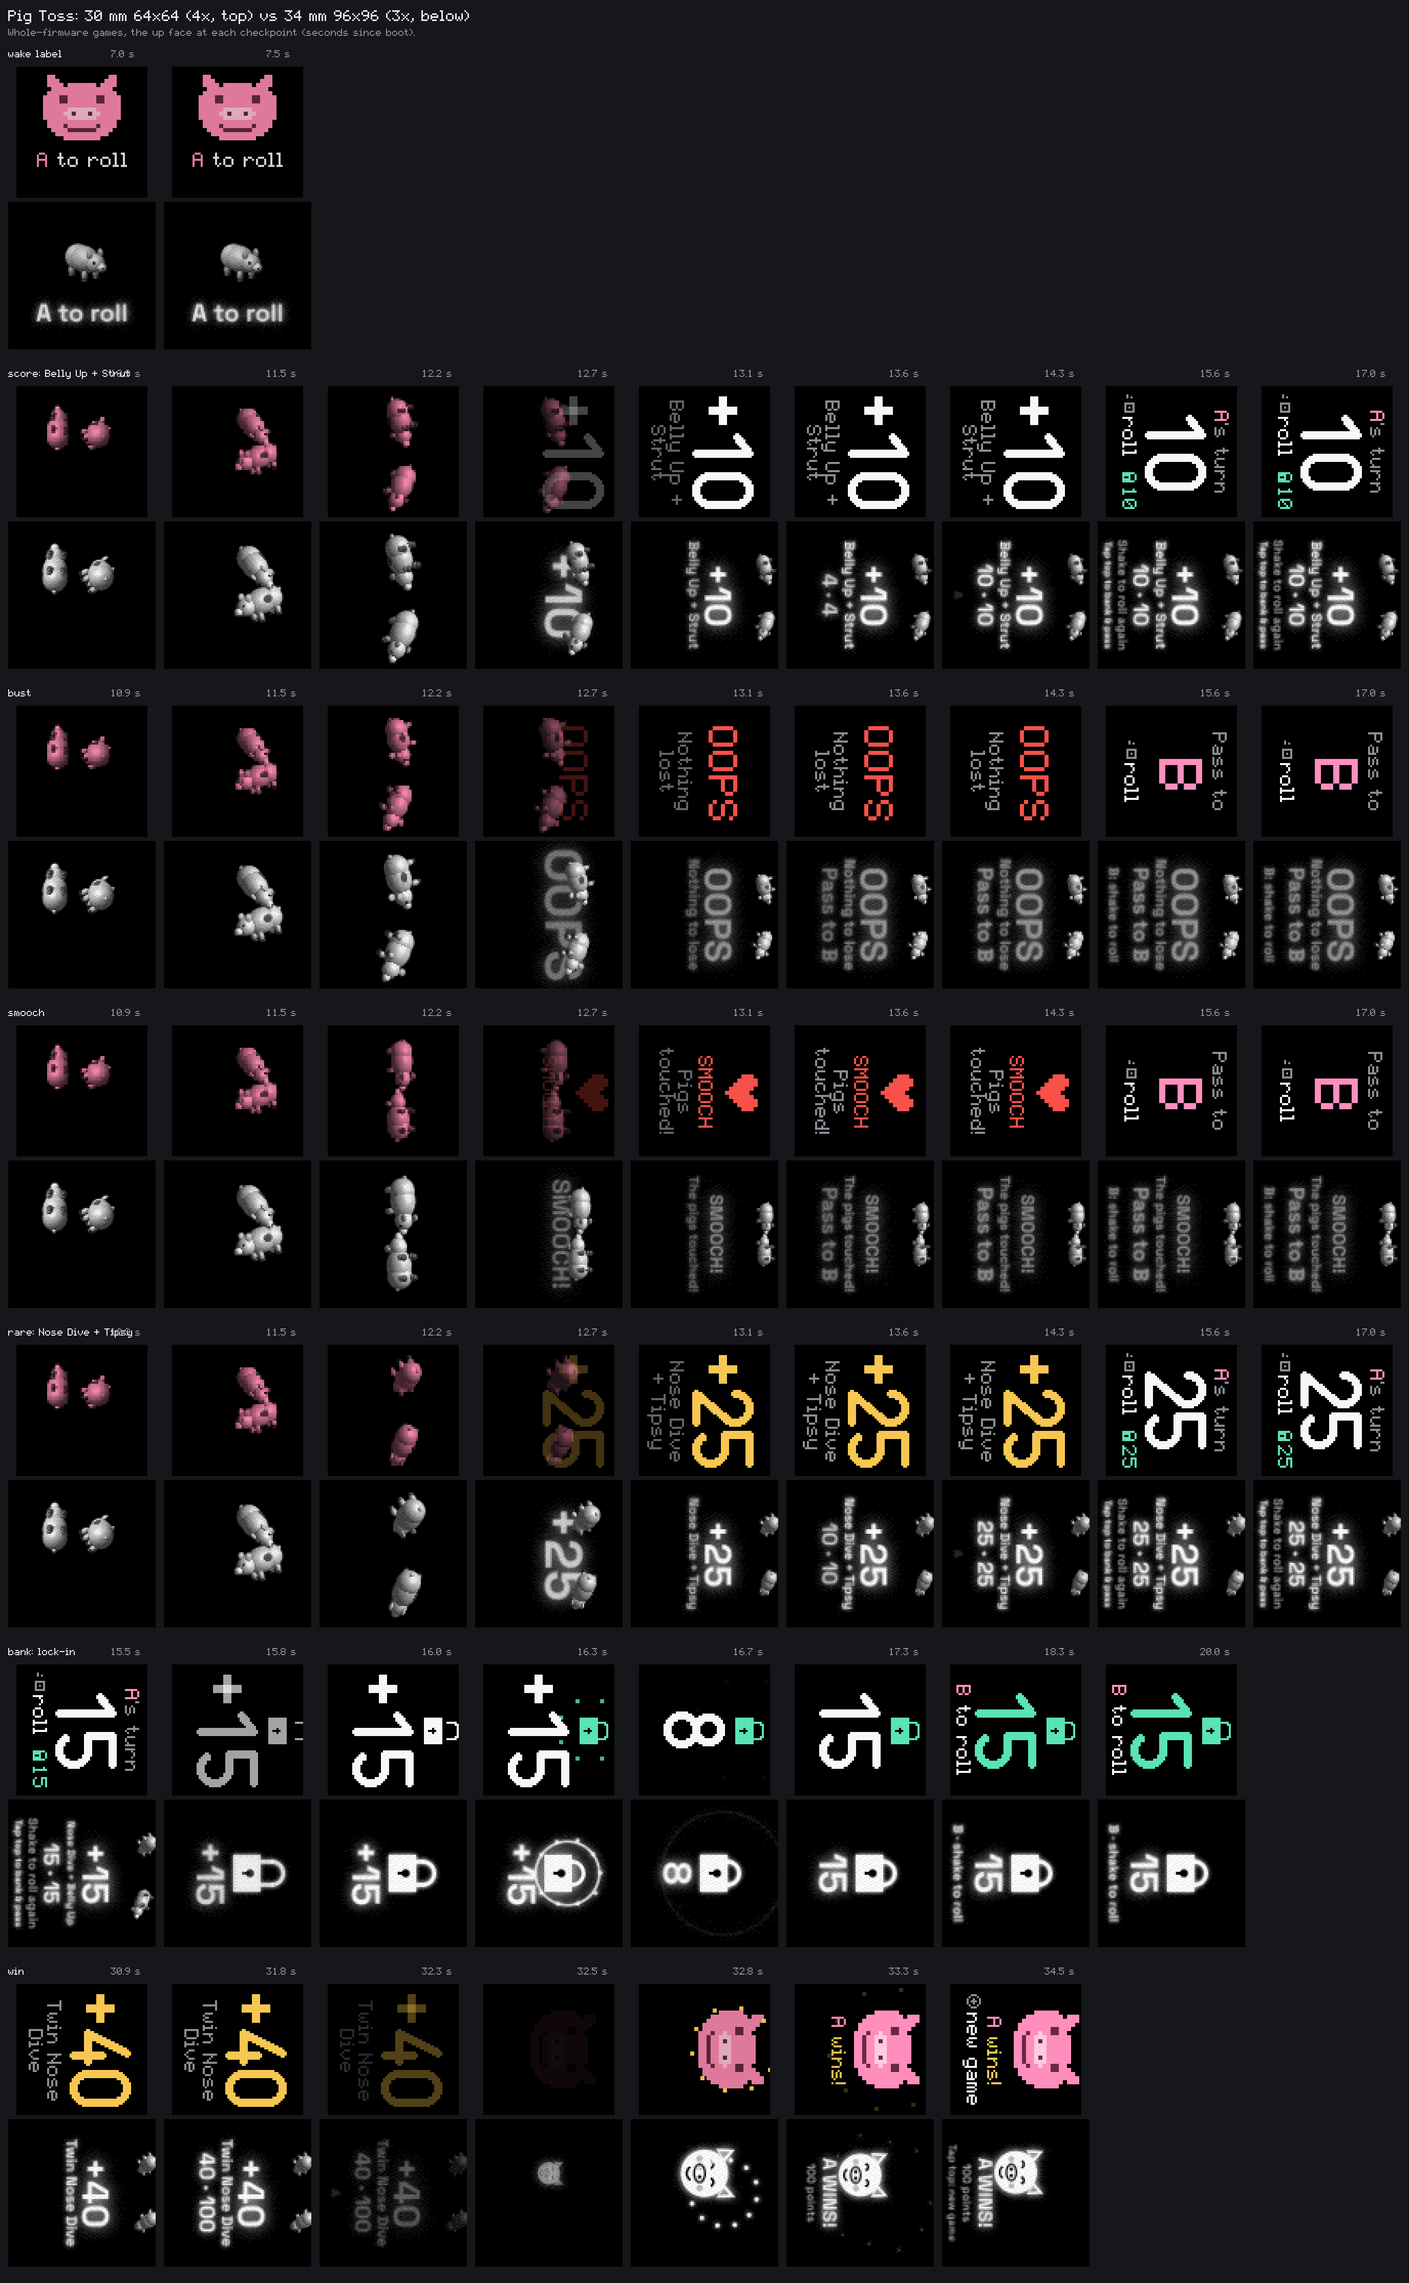
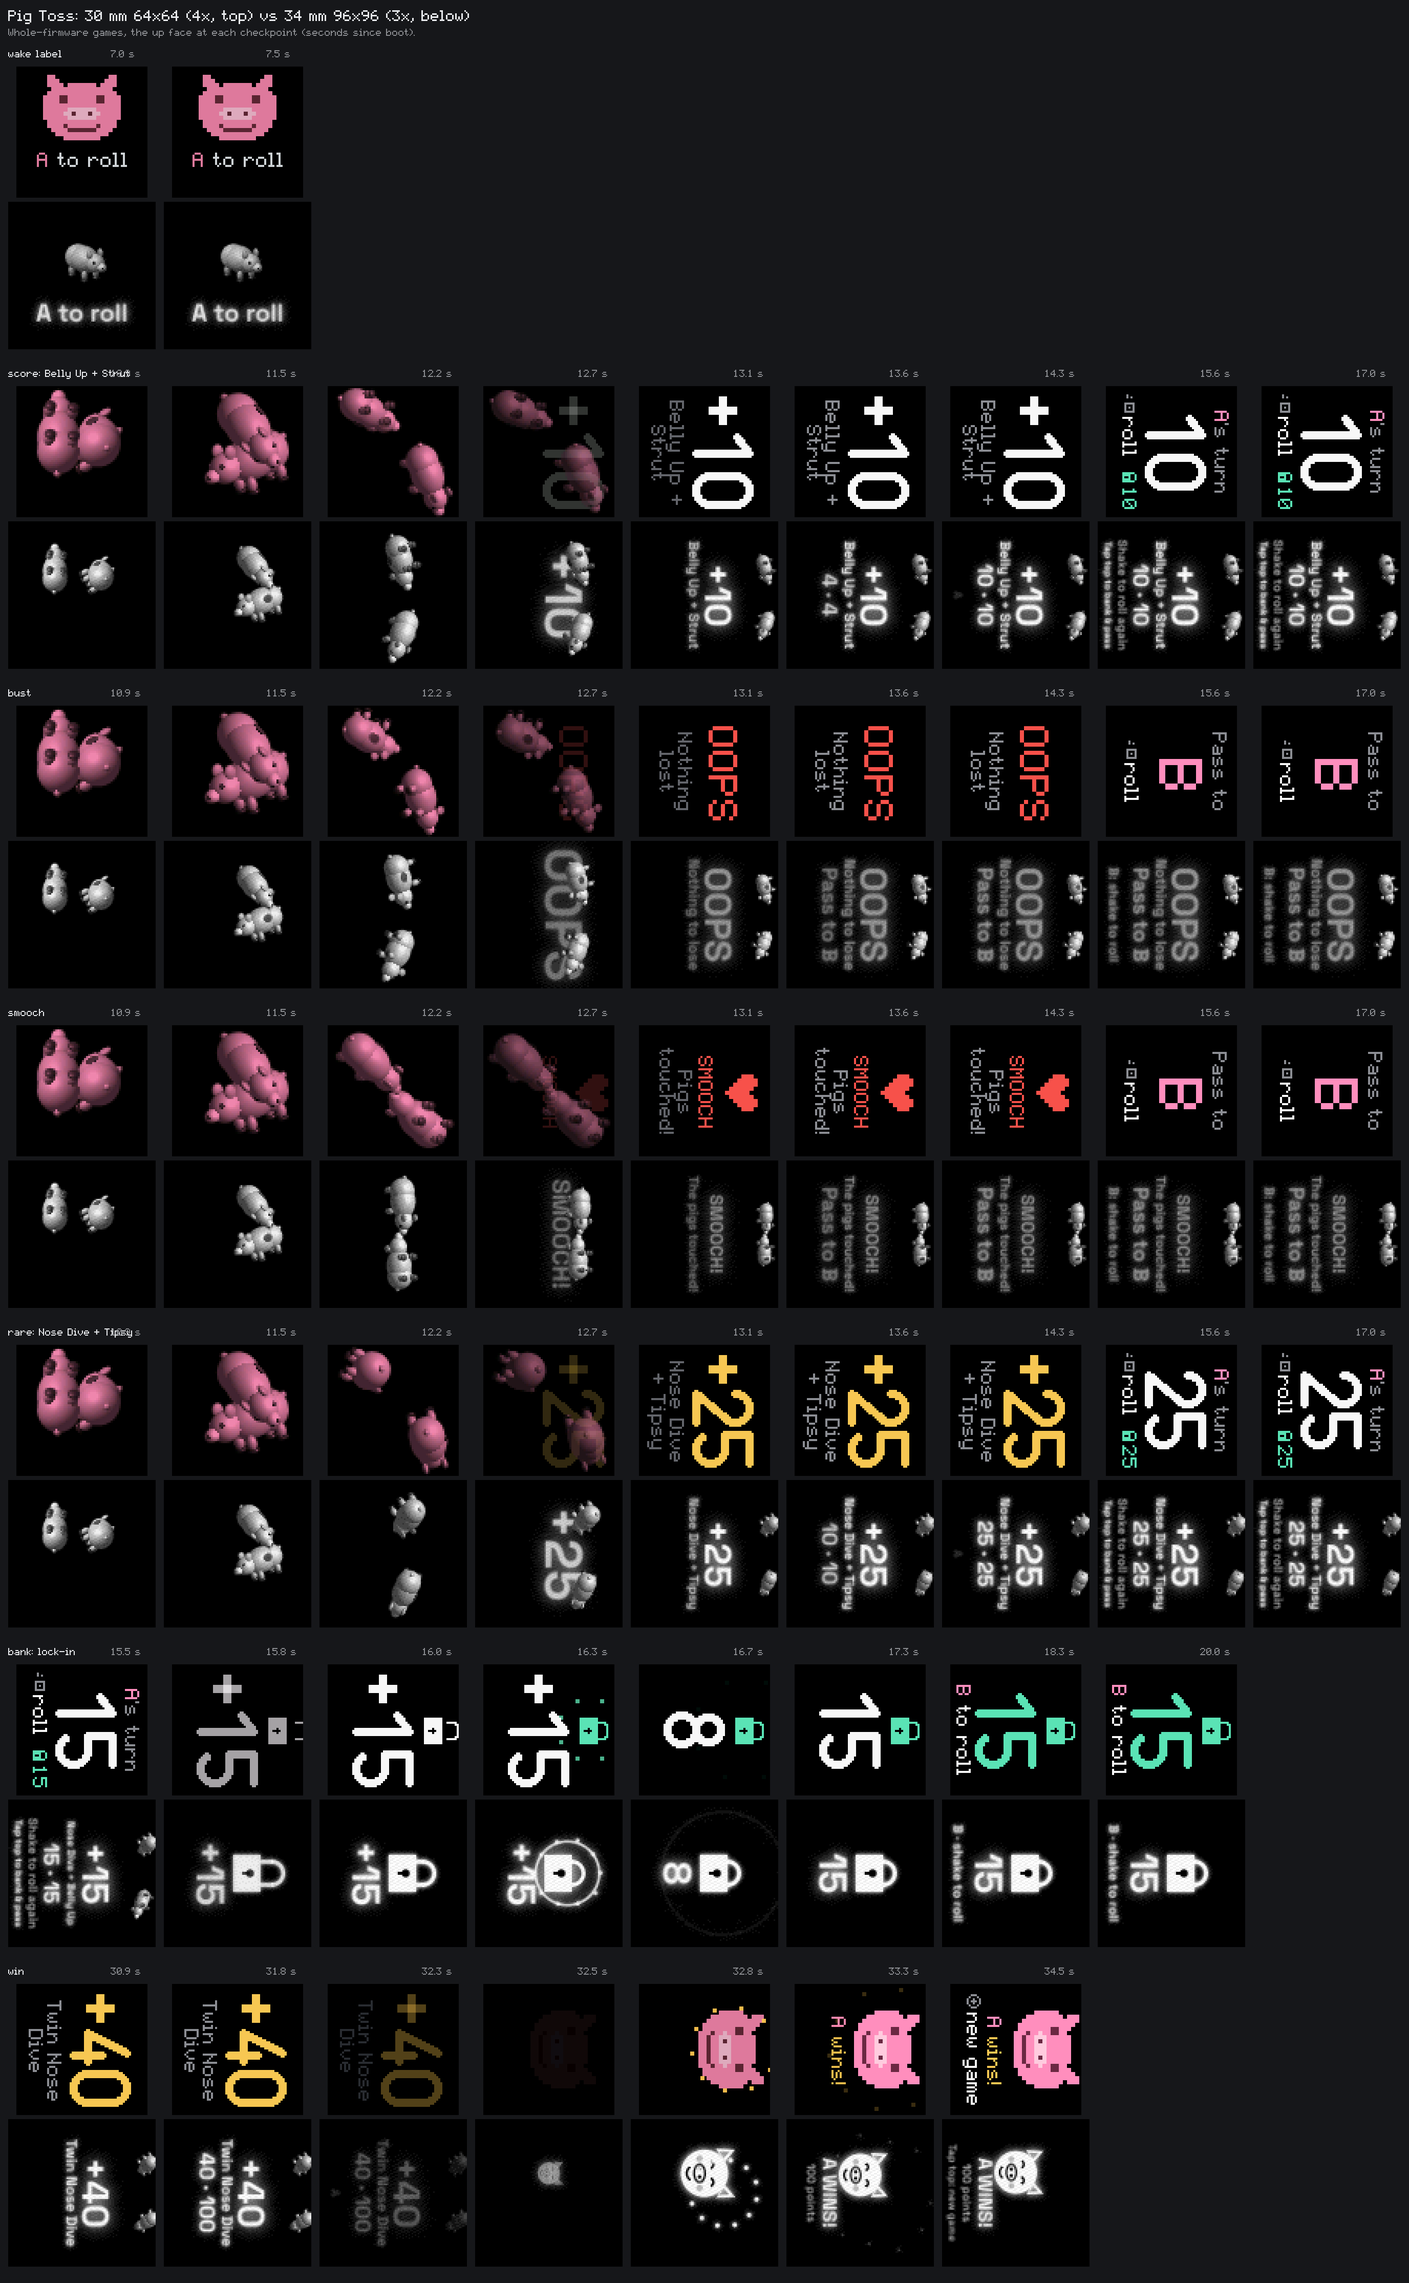
30 mm: bigger Pig Toss pigs
The pigs were cast for the 96×96 table and shrunk onto the 64×64 face,
about 13 px each. Now a per-target lens (DisplayTarget::pig_lens) frames
them:

- The 64×64 face takes the middle of the picture 1:1 and zooms in, with
  the tumble's wandering and bounce pulled in to match.
- As the pigs land, the pair turns toward the viewer as one piece (so
  touching pigs still touch). The view then eases to fit them, about
  60 px across, and centres them.

A test checks that a whole tumble and every landing stay on the face,
and that the landed pigs span at least 50 px. The 96×96 die uses
Lens::WHOLE, and its snapshots are unchanged.

Claude-Session: https://claude.ai/code/session_01JDQ8znoknXNbgB4n1wLGzs

diff --git a/packages/firmware/core/src/pigfx.rs b/packages/firmware/core/src/pigfx.rs
@@ -362,6 +362,44 @@ pub fn rest(i: usize, poses: [Pose; 2], touching: bool) -> PigState {
 }
 
 /// What the faces show of the pigs.
+/// How a panel frames the pigs. The 96×96 die sees the table whole; a
+/// smaller panel can zoom in, and pull the pigs' wandering in to match, so
+/// that they stay big and on the face.
+#[derive(Clone, Copy, Debug, PartialEq)]
+pub struct Lens {
+    /// Pig size against the 96×96 design.
+    pub zoom: f32,
+    /// How far across the table the pigs wander, tumble and rest, against
+    /// the 96×96 design. Pigs that land touching still touch.
+    pub spread: f32,
+    /// The bounce height in the air, against the 96×96 design.
+    pub hop: f32,
+    /// Moves the table's centre down the face in the air, canvas units.
+    pub drop: f32,
+    /// Landed, the pair turns this far about the vertical (radians), as one
+    /// piece so that touching pigs still touch. Then the view zooms to fit
+    /// them, `fit` pixels across at most, and centres them. 0 keeps
+    /// the 96×96 table's view.
+    pub turn: f32,
+    pub fit: f32,
+    /// Lay a smaller panel's pixels 1:1 from the middle of the picture,
+    /// rather than shrinking the whole picture onto it.
+    pub crop: bool,
+}
+
+impl Lens {
+    /// The 96×96 die's view.
+    pub const WHOLE: Lens = Lens {
+        zoom: 1.0,
+        spread: 1.0,
+        hop: 1.0,
+        drop: 0.0,
+        turn: 0.0,
+        fit: 0.0,
+        crop: false,
+    };
+}
+
 #[derive(Clone, Copy, Debug, PartialEq)]
 pub enum Scene {
     /// In the air `t` seconds since the throw began.
@@ -403,8 +441,9 @@ pub struct Canvas {
     cover: [u8; 96 * STRIP],
     /// The pixels the picture holds anything in, unrotated.
     bounds: Region,
-    /// The scene cast last, so an unchanged one isn't cast again.
-    cast: Option<Scene>,
+    /// The scene cast last, and through what, so an unchanged one isn't
+    /// cast again.
+    cast: Option<(Scene, Lens)>,
 }
 
 impl Canvas {
@@ -434,12 +473,17 @@ impl Canvas {
     /// Cast the pigs for `scene`, unless that is what the canvas already
     /// holds. Returns the work it took, which is none for a repeat.
     pub fn draw(&mut self, scene: Scene) -> Stats {
+        self.draw_through(scene, Lens::WHOLE)
+    }
+
+    /// [`Self::draw`], framed by `lens`.
+    pub fn draw_through(&mut self, scene: Scene, lens: Lens) -> Stats {
         let scene = scene.at_rest_clamped();
-        if self.cast == Some(scene) {
+        if self.cast == Some((scene, lens)) {
             return Stats::default();
         }
-        self.cast = Some(scene);
-        let (states, view) = layout(scene);
+        self.cast = Some((scene, lens));
+        let (states, view) = layout(scene, lens);
         self.n = prepare(&states, view, &mut self.casts);
         let mut stats = Stats::default();
         let mut lo = (usize::MAX, usize::MAX);
@@ -504,7 +548,8 @@ impl Canvas {
 
     /// Lay the pigs onto a face turned by `rot`, over whatever it shows,
     /// dimmed by `alpha`. The picture is cast at 96×96; a smaller panel
-    /// samples it nearest (a stopgap: Pig Toss has no 64×64 design yet).
+    /// takes the middle of it 1:1 if the lens crops, else samples it whole,
+    /// nearest.
     pub fn lay_onto<T: Target>(&self, fb: &mut Framebuffer<T>, rot: Quarter, alpha: f32) {
         self.lay_onto_tinted(fb, rot, alpha, Color::WHITE);
     }
@@ -538,9 +583,15 @@ impl Canvas {
             return;
         }
         let n = T::WIDTH;
+        let crop = self.cast.is_some_and(|(_, l)| l.crop);
+        let off = (96 - n) / 2;
         for ty in 0..n {
             for tx in 0..n {
-                let (sx, sy) = ((tx * 96 + 48) / n, (ty * 96 + 48) / n);
+                let (sx, sy) = if crop {
+                    (tx + off, ty + off)
+                } else {
+                    ((tx * 96 + 48) / n, (ty * 96 + 48) / n)
+                };
                 let Some((shade, a)) = decode(self.picture[sy * 96 + sx]) else {
                     continue;
                 };
@@ -679,7 +730,10 @@ fn dot(a: [f32; 3], b: [f32; 3]) -> f32 {
 }
 
 /// Where the two pigs are for `scene`, and how the table is seen.
-fn layout(scene: Scene) -> ([PigState; 2], View) {
+fn layout(scene: Scene, lens: Lens) -> ([PigState; 2], View) {
+    if lens != Lens::WHOLE {
+        return framed(scene, lens);
+    }
     let mut states = match scene {
         Scene::Tumbling(t) => [tumble(0, t), tumble(1, t)],
         Scene::Settling {
@@ -715,6 +769,95 @@ fn layout(scene: Scene) -> ([PigState; 2], View) {
         origin: (CENTRE.0, CENTRE.1 + 10.0 - lift),
     };
     (states, view)
+}
+
+/// [`layout`] through a lens other than the whole table's. In the air the
+/// pigs are zoomed in, with their wandering and bounce pulled in to match.
+/// As they land, the view eases to the landed pair turned by `lens.turn`,
+/// zoomed to fit and centred. The shrink is ignored: such a panel fades
+/// the pigs instead.
+fn framed(scene: Scene, lens: Lens) -> ([PigState; 2], View) {
+    let squeeze = |mut st: PigState| {
+        st.pos[0] *= lens.spread;
+        st.pos[1] *= lens.hop;
+        st.pos[2] *= lens.spread;
+        st
+    };
+    let air = View {
+        elevation: ELEVATION,
+        scale: SCALE * lens.zoom,
+        origin: (CENTRE.0, CENTRE.1 + 10.0 + lens.drop),
+    };
+    let Scene::Settling {
+        land,
+        u,
+        poses,
+        touching,
+        ..
+    } = scene
+    else {
+        let Scene::Tumbling(t) = scene else { unreachable!() };
+        return ([squeeze(tumble(0, t)), squeeze(tumble(1, t))], air);
+    };
+    let to = landings(poses, touching);
+    let states = [0, 1].map(|i| {
+        let from = squeeze(tumble(i, land));
+        // Where it rests, turned with the pair.
+        // The pair turns in step with the settle.
+        turned_about_y(settle(i, from, to[i], u), lens.turn * ease_out(u.clamp(0.0, 1.0)))
+    });
+    // The landed pair's bounds as the view sees them, and the view that
+    // fits and centres them.
+    let rest = [0, 1].map(|i| turned_about_y(settle(i, tumble(i, land), to[i], 1.0), lens.turn));
+    let (lo, hi) = view_bounds(&rest);
+    let span = (hi.0 - lo.0).max(hi.1 - lo.1);
+    // `fit` is in pixels of the 96×96 picture.
+    let fit_scale = (lens.fit / crate::gfx::K / span).min(SCALE * lens.zoom * 1.25);
+    let fit = View {
+        elevation: ELEVATION,
+        scale: fit_scale,
+        origin: (-0.5 * (lo.0 + hi.0) * fit_scale, 0.5 * (lo.1 + hi.1) * fit_scale),
+    };
+    let e = ease_out(u.clamp(0.0, 1.0));
+    let mix = |a: f32, b: f32| a + (b - a) * e;
+    let view = View {
+        elevation: ELEVATION,
+        scale: mix(air.scale, fit.scale),
+        origin: (mix(air.origin.0, fit.origin.0), mix(air.origin.1, fit.origin.1)),
+    };
+    (states, view)
+}
+
+/// `st` turned `a` radians about the table's vertical through its centre.
+fn turned_about_y(st: PigState, a: f32) -> PigState {
+    let (c, sn) = (cosf(a), sinf(a));
+    let (x, z) = (st.pos[0], st.pos[2]);
+    PigState {
+        q: Quat::axis_angle([0.0, 1.0, 0.0], a).mul(st.q),
+        pos: [x * c + z * sn, st.pos[1], -x * sn + z * c],
+    }
+}
+
+/// The smallest box, in world units across and up the view, that holds
+/// the solid parts of the pigs in `states`: `((left, bottom), (right, top))`.
+fn view_bounds(states: &[PigState]) -> ((f32, f32), (f32, f32)) {
+    let (ce, se) = (cosf(ELEVATION), sinf(ELEVATION));
+    let up = [0.0, ce, -se];
+    let (mut lo, mut hi) = ((f32::MAX, f32::MAX), (f32::MIN, f32::MIN));
+    for st in states {
+        for p in PARTS.iter().filter(|p| p.solid) {
+            let r = st.q.rotate(p.centre);
+            let w = [r[0] + st.pos[0], r[1] + st.pos[1], r[2] + st.pos[2]];
+            let (x, y) = (w[0], dot(w, up));
+            let (rx, ry) = (
+                support_along(st.q, p, [1.0, 0.0, 0.0]),
+                support_along(st.q, p, up),
+            );
+            lo = (lo.0.min(x - rx), lo.1.min(y - ry));
+            hi = (hi.0.max(x + rx), hi.1.max(y + ry));
+        }
+    }
+    (lo, hi)
 }
 
 /// How much work a draw took, counted rather than timed, so a budget on it
@@ -1199,7 +1342,7 @@ mod tests {
             let mut p = Painter::new(&mut own, &mut layer, Transform::quarter(rot));
             let xf = p.xf;
             let fb = p.framebuffer();
-            let (states, view) = layout(scene);
+            let (states, view) = layout(scene, Lens::WHOLE);
             let mut casts = [Cast::NONE; MAX_CASTS];
             let n = prepare(&states, view, &mut casts);
             let mut z = [0u16; PIXELS];
@@ -1270,5 +1413,64 @@ mod tests {
         let b = Quat::axis_angle([1.0, 0.0, 0.0], 2.0);
         assert!(a.slerp(b, 0.0).dot(a) > 0.9999);
         assert!(a.slerp(b, 1.0).dot(b) > 0.9999);
+    }
+}
+
+#[cfg(test)]
+mod lens_tests {
+    use super::*;
+
+    /// How much of the pigs a 64×64 face crops away (the share of the
+    /// picture's coverage outside the middle 64×64), worst over a long
+    /// tumble and every landing, and how big the landed pigs are.
+    #[test]
+    fn a_64_face_keeps_the_pigs_on_it() {
+        use crate::target::DisplayTarget;
+        let lens = <smokebomb_hal::Rgb64 as DisplayTarget>::pig_lens();
+        let mut canvas = Canvas::new();
+        let mut off = |scene: Scene| {
+            canvas.draw_through(scene, lens);
+            let (mut all, mut out) = (0u32, 0u32);
+            for y in 0..96 {
+                for x in 0..96 {
+                    if let Some((_, a)) = decode(canvas.picture[y * 96 + x]) {
+                        let c = (a * 255.0) as u32;
+                        all += c;
+                        if !(16..80).contains(&x) || !(16..80).contains(&y) {
+                            out += c;
+                        }
+                    }
+                }
+            }
+            let b = canvas.bounds;
+            (out as f32 / all.max(1) as f32, b.w.max(b.h))
+        };
+        let mut worst_air: f32 = 0.0;
+        for k in 0..400 {
+            worst_air = worst_air.max(off(Scene::Tumbling(k as f32 * 0.025)).0);
+        }
+        let (mut worst_rest, mut smallest): (f32, usize) = (0.0, 96);
+        for pa in Pose::ALL {
+            for pb in Pose::ALL {
+                for touching in [false, true] {
+                    for land in [0.3, 1.1, 2.6] {
+                        let (o, span) = off(Scene::Settling {
+                            land,
+                            u: 1.0,
+                            shrink: 0.0,
+                            poses: [pa, pb],
+                            touching,
+                        });
+                        worst_rest = worst_rest.max(o);
+                        smallest = smallest.min(span);
+                    }
+                }
+            }
+        }
+        assert!(worst_rest < 0.01, "landed pigs {worst_rest} off the face");
+        assert!(worst_air < 0.12, "tumbling pigs {worst_air} off the face");
+        // Landed, the pair fills most of the face (the 96×96 table's pigs
+        // shrunk onto it spanned about 30 px).
+        assert!(smallest >= 50, "landed pigs only {smallest} px across");
     }
 }

diff --git a/packages/firmware/core/src/target.rs b/packages/firmware/core/src/target.rs
@@ -68,6 +68,11 @@ pub trait DisplayTarget: Target {
         Color::WHITE
     }
 
+    /// Pig Toss: how the faces frame the pigs.
+    fn pig_lens() -> crate::pigfx::Lens {
+        crate::pigfx::Lens::WHOLE
+    }
+
     /// Pig Toss: how the settled pigs make way for the score, `s` seconds
     /// after landing: `(shrink, alpha)`. The 96×96 die shrinks them to the
     /// top of the face; a smaller panel can fade them instead.
@@ -221,6 +226,24 @@ impl DisplayTarget for Rgb64 {
 
     fn pig_tint() -> Color {
         crate::palette64::PINK
+    }
+
+    /// Shrunk onto 64×64 the 96×96 table's pigs are a few pixels long, so
+    /// the 64×64 face takes the middle of the picture 1:1 (×1.5) and zooms
+    /// in again, with the pigs' wandering pulled in to stay on the face.
+    /// Landed side by side they wouldn't fit that big, so the pair turns
+    /// toward the viewer and the view fits it to the face. Design values,
+    /// tuned on the contact sheet.
+    fn pig_lens() -> crate::pigfx::Lens {
+        crate::pigfx::Lens {
+            zoom: 1.3,
+            spread: 0.5,
+            hop: 0.35,
+            drop: -3.0,
+            turn: 0.9,
+            fit: 60.0,
+            crop: true,
+        }
     }
 
     /// Shrunk to the top of a 64×64 face the pigs are specks, so they stay

diff --git a/packages/firmware/core/src/lib.rs b/packages/firmware/core/src/lib.rs
@@ -1261,7 +1261,7 @@ where
         // Every face shows the same pigs: cast them once for all of them.
         if let Some(scene) = pig_scene.filter(|_| !blackout) {
             if let Some(pigs) = fx.pigs() {
-                pigs.draw(scene);
+                pigs.draw_through(scene, TargetOf::<P>::pig_lens());
             }
         }
 

diff --git a/docs/30mm/README.md b/docs/30mm/README.md
@@ -67,7 +67,8 @@ Screen code has no target checks.
 
 **Pig Toss.** The 96×96 layout puts the pigs, the throw, the turn score, the total and the hints on screen at once. At 64×64 that was unreadable, so the 64×64 design uses time instead of space:
 
-- The pigs land full size and pink, hold, then fade out. The 96×96 die shrinks them into a corner instead.
+- The pigs are about twice as big as the 96×96 table's pigs drawn onto 64×64. The face takes the middle of the picture 1:1 and zooms in, with the pigs' tumble pulled in to stay on the face. Landed side by side, two pigs that big wouldn't fit, so the pair turns toward the viewer and the view zooms to fit it (a test checks the landed pigs span at least 50 px and stay on the face).
+- They land pink, hold, then fade out. The 96×96 die shrinks them into a corner instead.
 - Then the throw: a big "+10" (gold from 20), a red "OOPS", or a red heart for a smooch. Under it go the pose name and what it cost ("Lost 12", "Nothing lost").
 - Then the resting screen: "A's turn", the turn's points in the result numerals, and two icon hints, shake to roll and a mint lock with the banked total.
 - Lock-in: the shackle drops and snaps mint with sparks, the points count into the total, then "[next] to roll".
